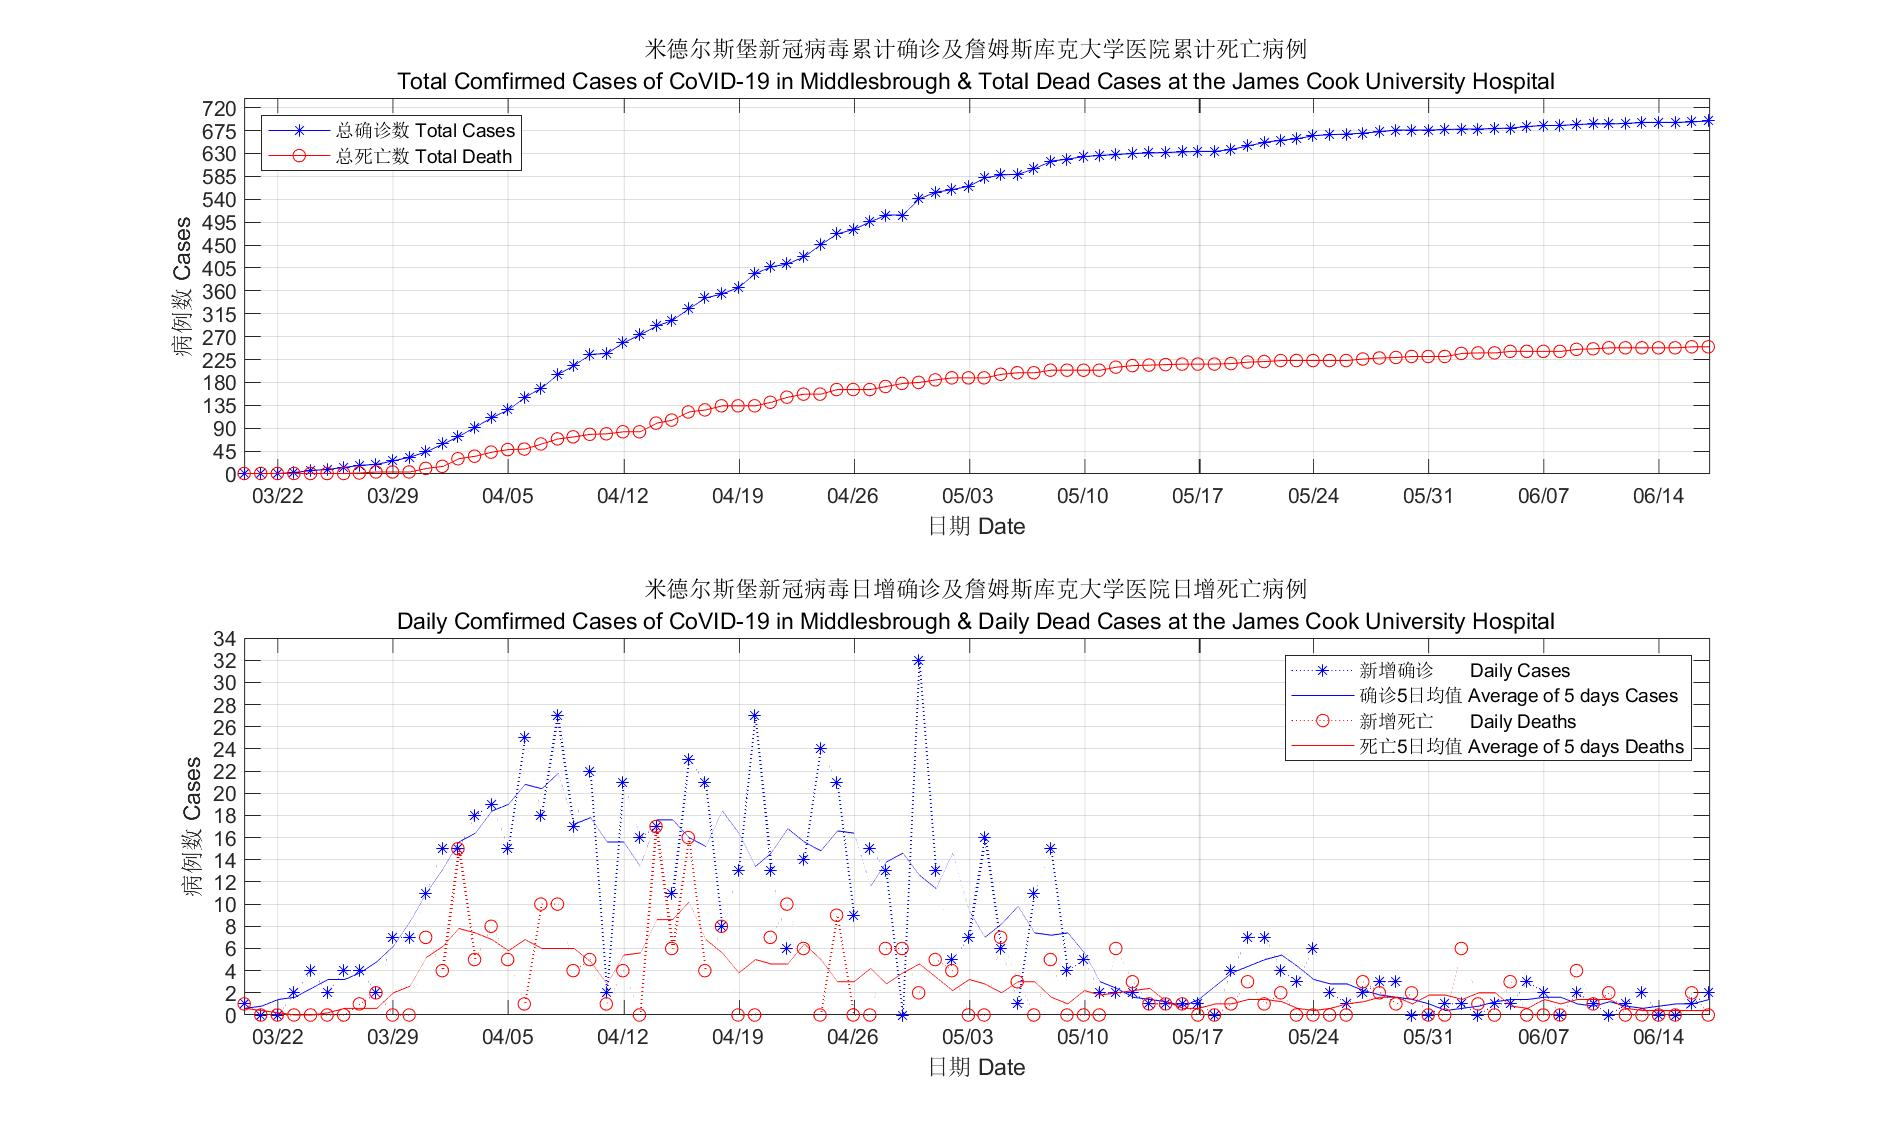
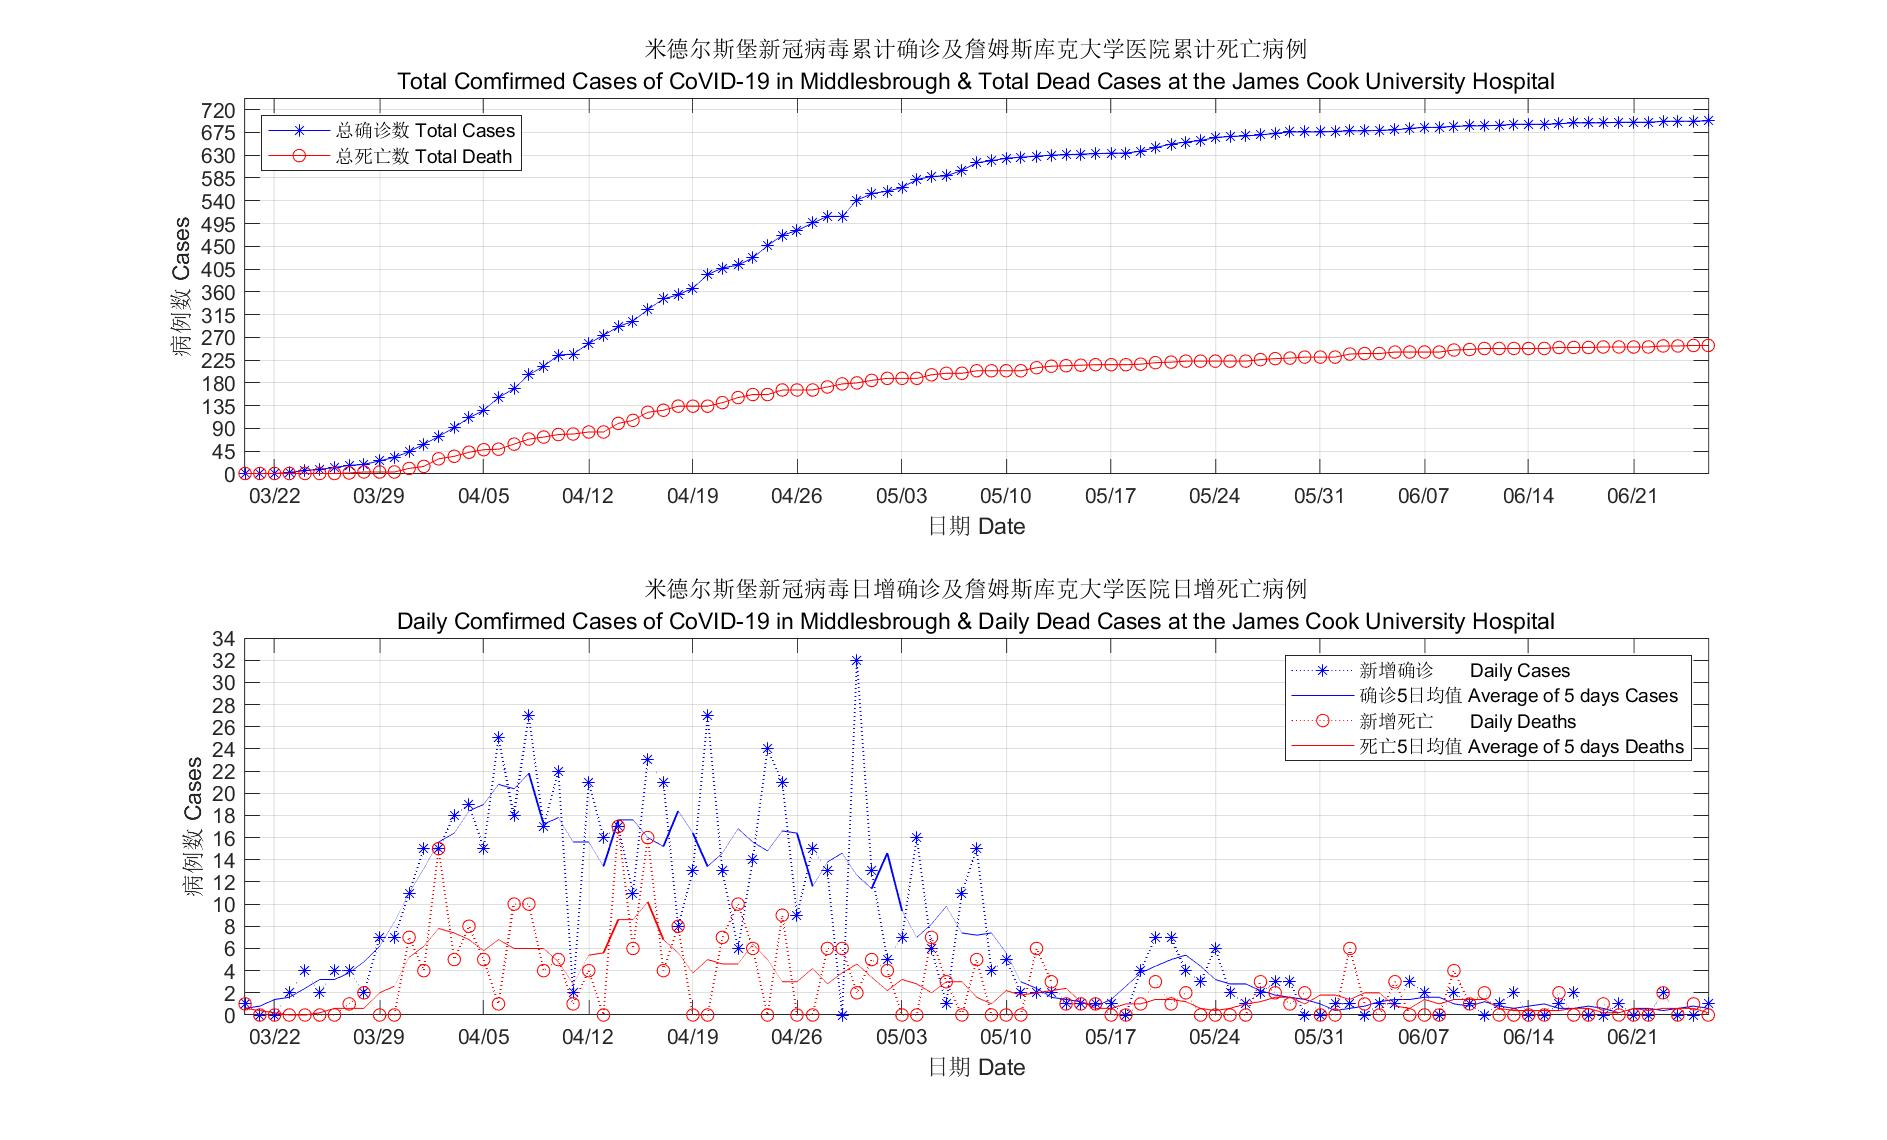
Update

diff --git a/Covid19_TS1.py b/Covid19_TS1.py
@@ -1,7 +1,7 @@
 #Figure of CoVid-19 Case in Middlesbrough(Python version)
 #Coded by dxb 05-05-2020
 #Revise on 06-12-2020
-#Update on 06-17-2020
+#Update on 06-26-2020
 
 import numpy
 import matplotlib.pyplot
@@ -14,13 +14,15 @@ cases = [1, 1, 1, 3, 7, 9, 13, 17, 19, 26, 33, 44, 59, 74, 92, 111, 126, 151, 16
     235, 237, 258, 274, 291, 302, 325, 346, 354, 367, 394, 407, 413, 427, 451, 472, 481, 496,\
     509, 509, 541, 554, 559, 566, 582, 588, 589, 600, 615, 619, 624, 626, 628, 630, 631, 632,\
     633, 634, 634, 638, 645, 652, 656, 659, 665, 667, 668, 670, 673, 676, 676, 676, 677, 678,\
-    678, 679, 680, 683, 685, 685, 687, 688, 688, 689, 691, 691, 691, 692, 694]
+    678, 679, 680, 683, 685, 685, 687, 688, 688, 689, 691, 691, 691, 692, 694, 694, 694, 695,\
+    695, 695, 697, 697, 697, 698]
 #deaths data from NHS
 dcases = [1, 1, 1, 1, 1, 1, 1, 2, 4, 4, 4, 11, 15, 30, 35, 43, 48, 49, 59, 69, 73, 78, 79, 83,\
     83, 100, 106, 122, 126, 134, 134, 134, 141, 151, 157, 157, 166, 166, 166, 172, 178, 180,\
     185, 189, 189, 189, 196, 199, 199, 204, 204, 204, 204, 210, 213, 214, 215, 216, 216, 216,\
     217, 220, 221, 223, 223, 223, 223, 223, 226, 228, 229, 231, 231, 231, 237, 238, 238, 241,\
-    241, 241, 241, 245, 246, 248, 248, 248, 248, 248, 250, 250]
+    241, 241, 241, 245, 246, 248, 248, 248, 248, 248, 250, 250, 250, 251, 251, 251, 251, 253,\
+    253, 254, 254]
 
 #Initial
 #Date config

diff --git a/covid19_TS1.m b/covid19_TS1.m
@@ -1,7 +1,7 @@
 %Figure of CoVid-19 Case in Middlesbrough
 %Coded by dxb 2020.4.1
 %Revised on 06-08-2020
-%Updated on 06-17-2020
+%Updated on 06-26-2020
 
 %Data source Need to update by day
 %cases data from the UK government
@@ -10,13 +10,14 @@ cases = [1 1 1 3 7 9 13 17 19 26 33 44 59 74 92 111 126 151 169 196 213 ...
     496 509 509 541 554 559 566 582 588 589 600 615 619 624 626 628 630 ...
     631 632 633 634 634 638 645 652 656 659 665 667 668 670 673 676 676 ...
     676 677 678 678 679 680 683 685 685 687 688 688 689 691 691 691 692 ...
-    694];
+    694 694 694 695 695 695 697 697 697 698];
 %deaths data from NHS
 dcases = [1 1 1 1 1 1 1 2 4 4 4 11 15 30 35 43 48 49 59 69 73 78 79 83 ...
     83 100 106 122 126 134 134 134 141 151 157 157 166 166 166 172 178 ...
     180 185 189 189 189 196 199 199 204 204 204 204 210 213 214 215 216 ...
     216 216 217 220 221 223 223 223 223 223 226 228 229 231 231 231 237 ...
-    238 238 241 241 241 241 245 246 248 248 248 248 248 250 250];
+    238 238 241 241 241 241 245 246 248 248 248 248 248 250 250 250 251 ...
+    251 251 251 253 253 254 254];
 
 %Initial
 %Date config
